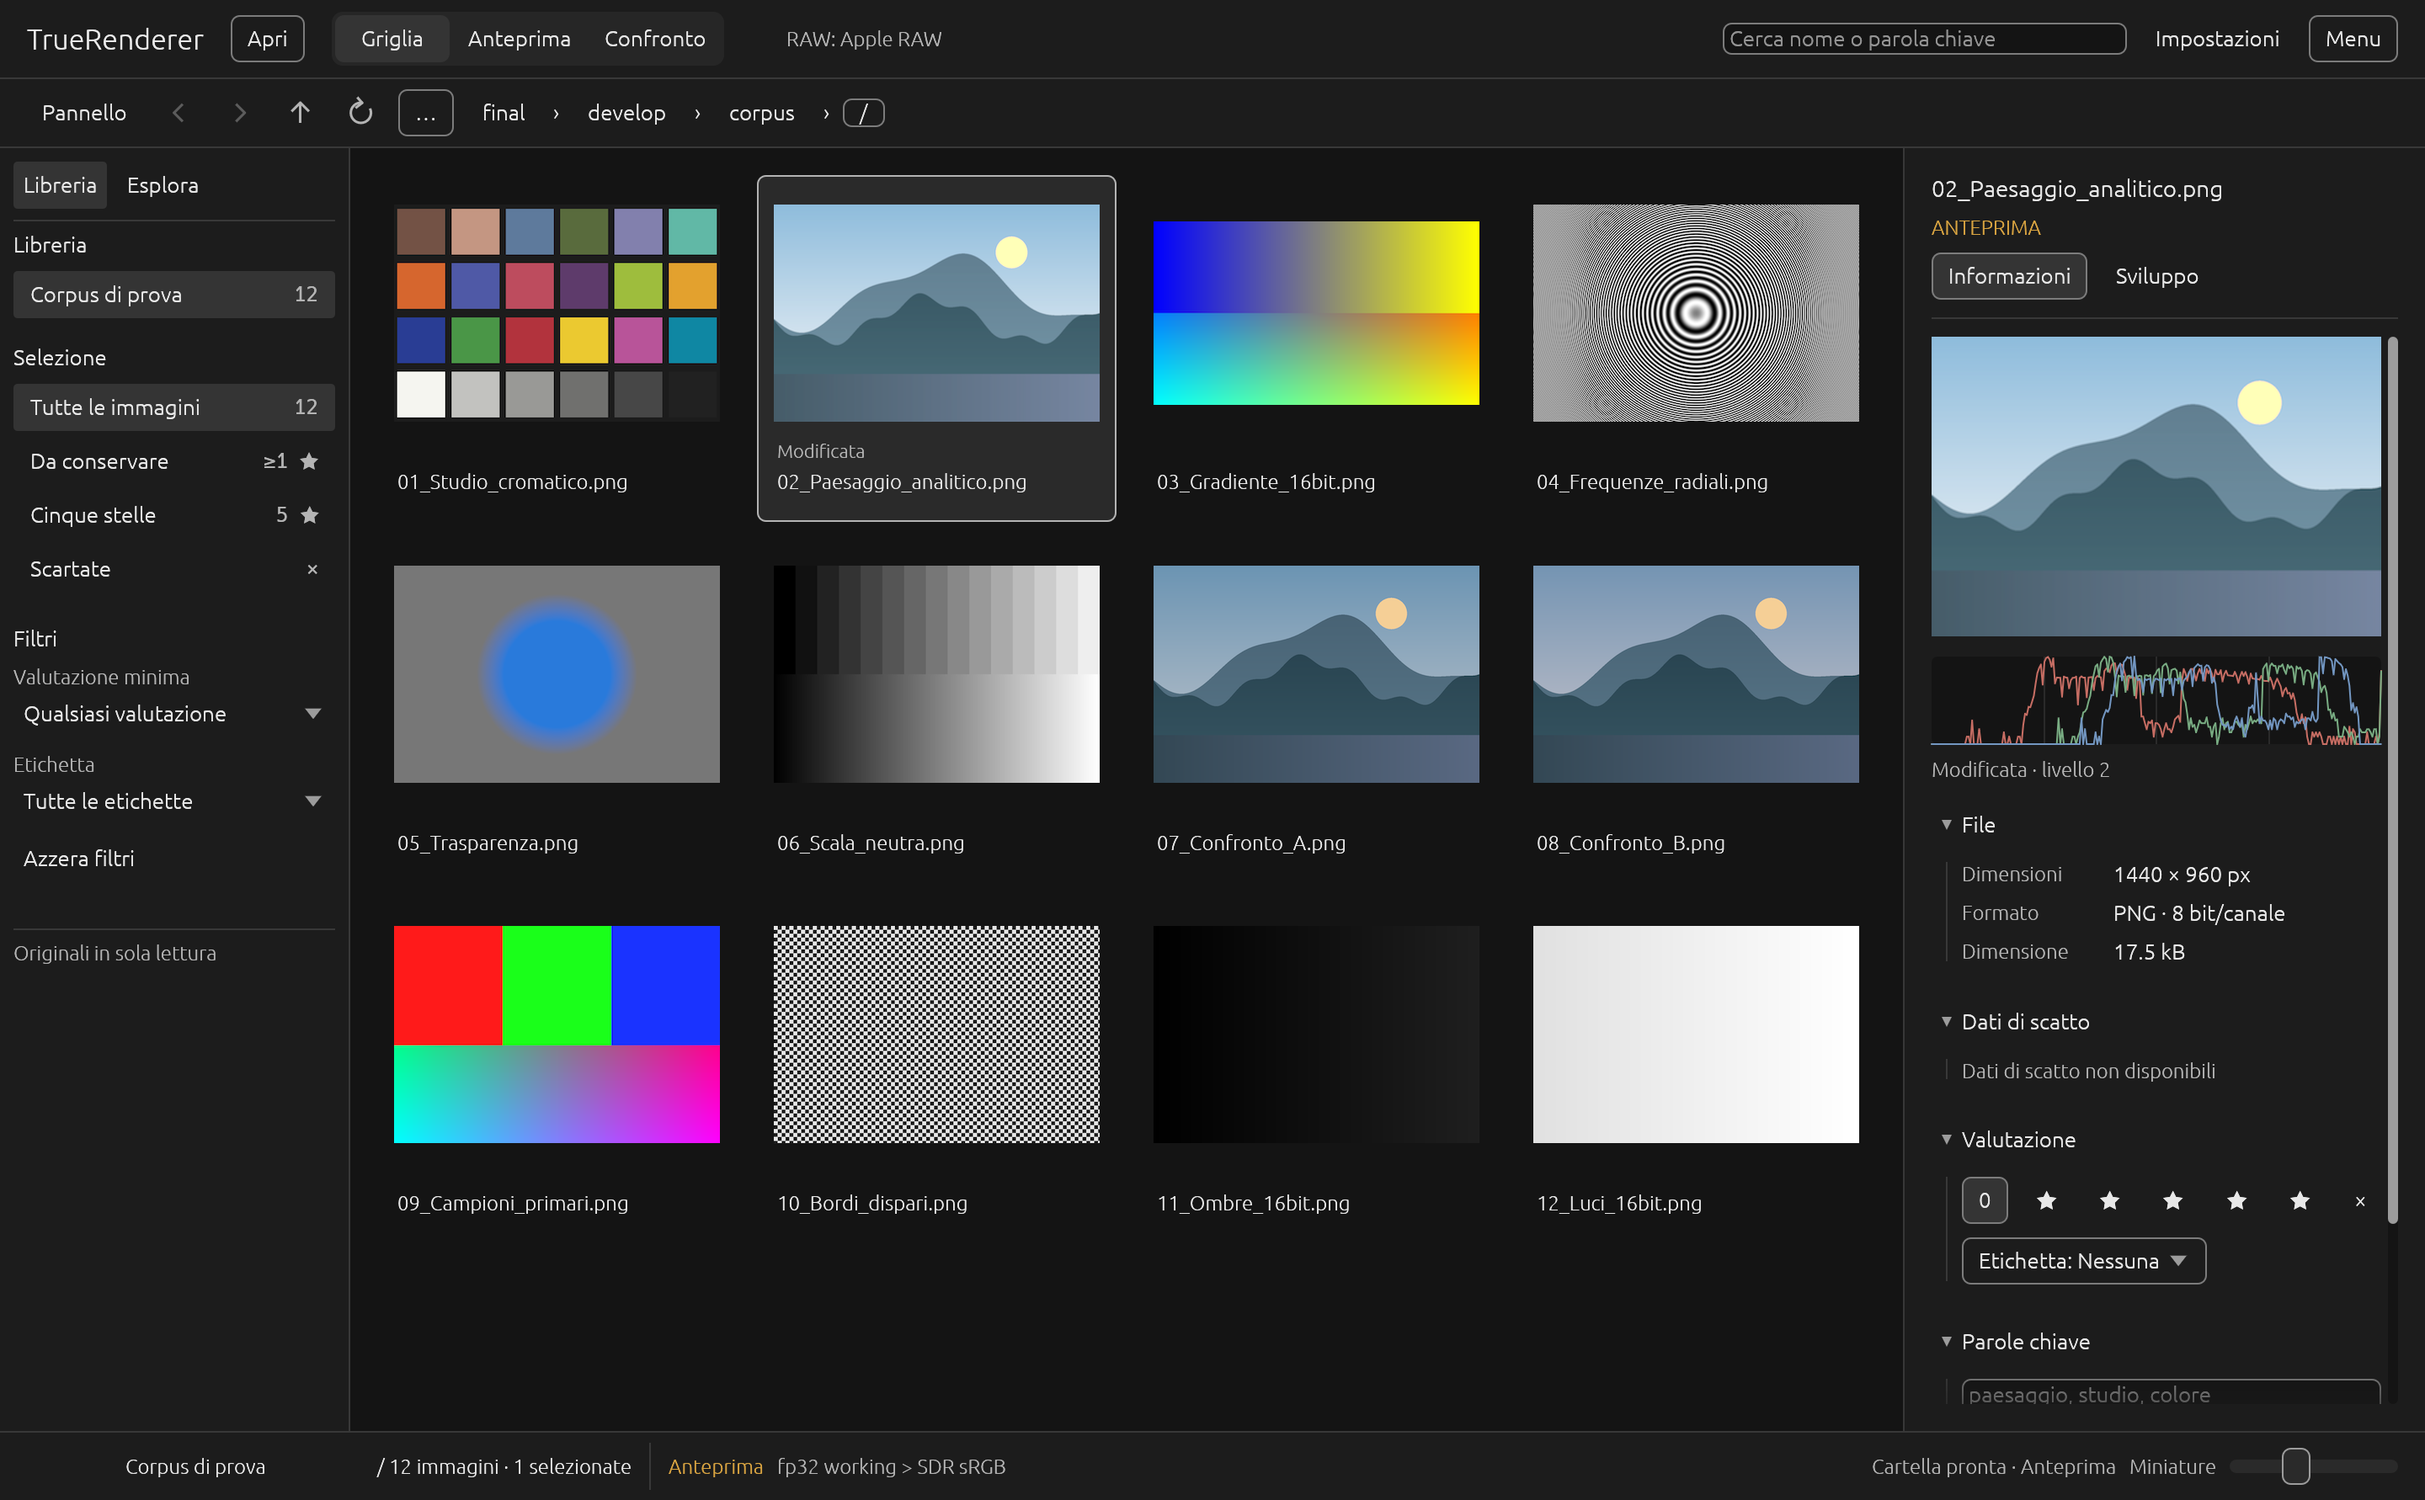
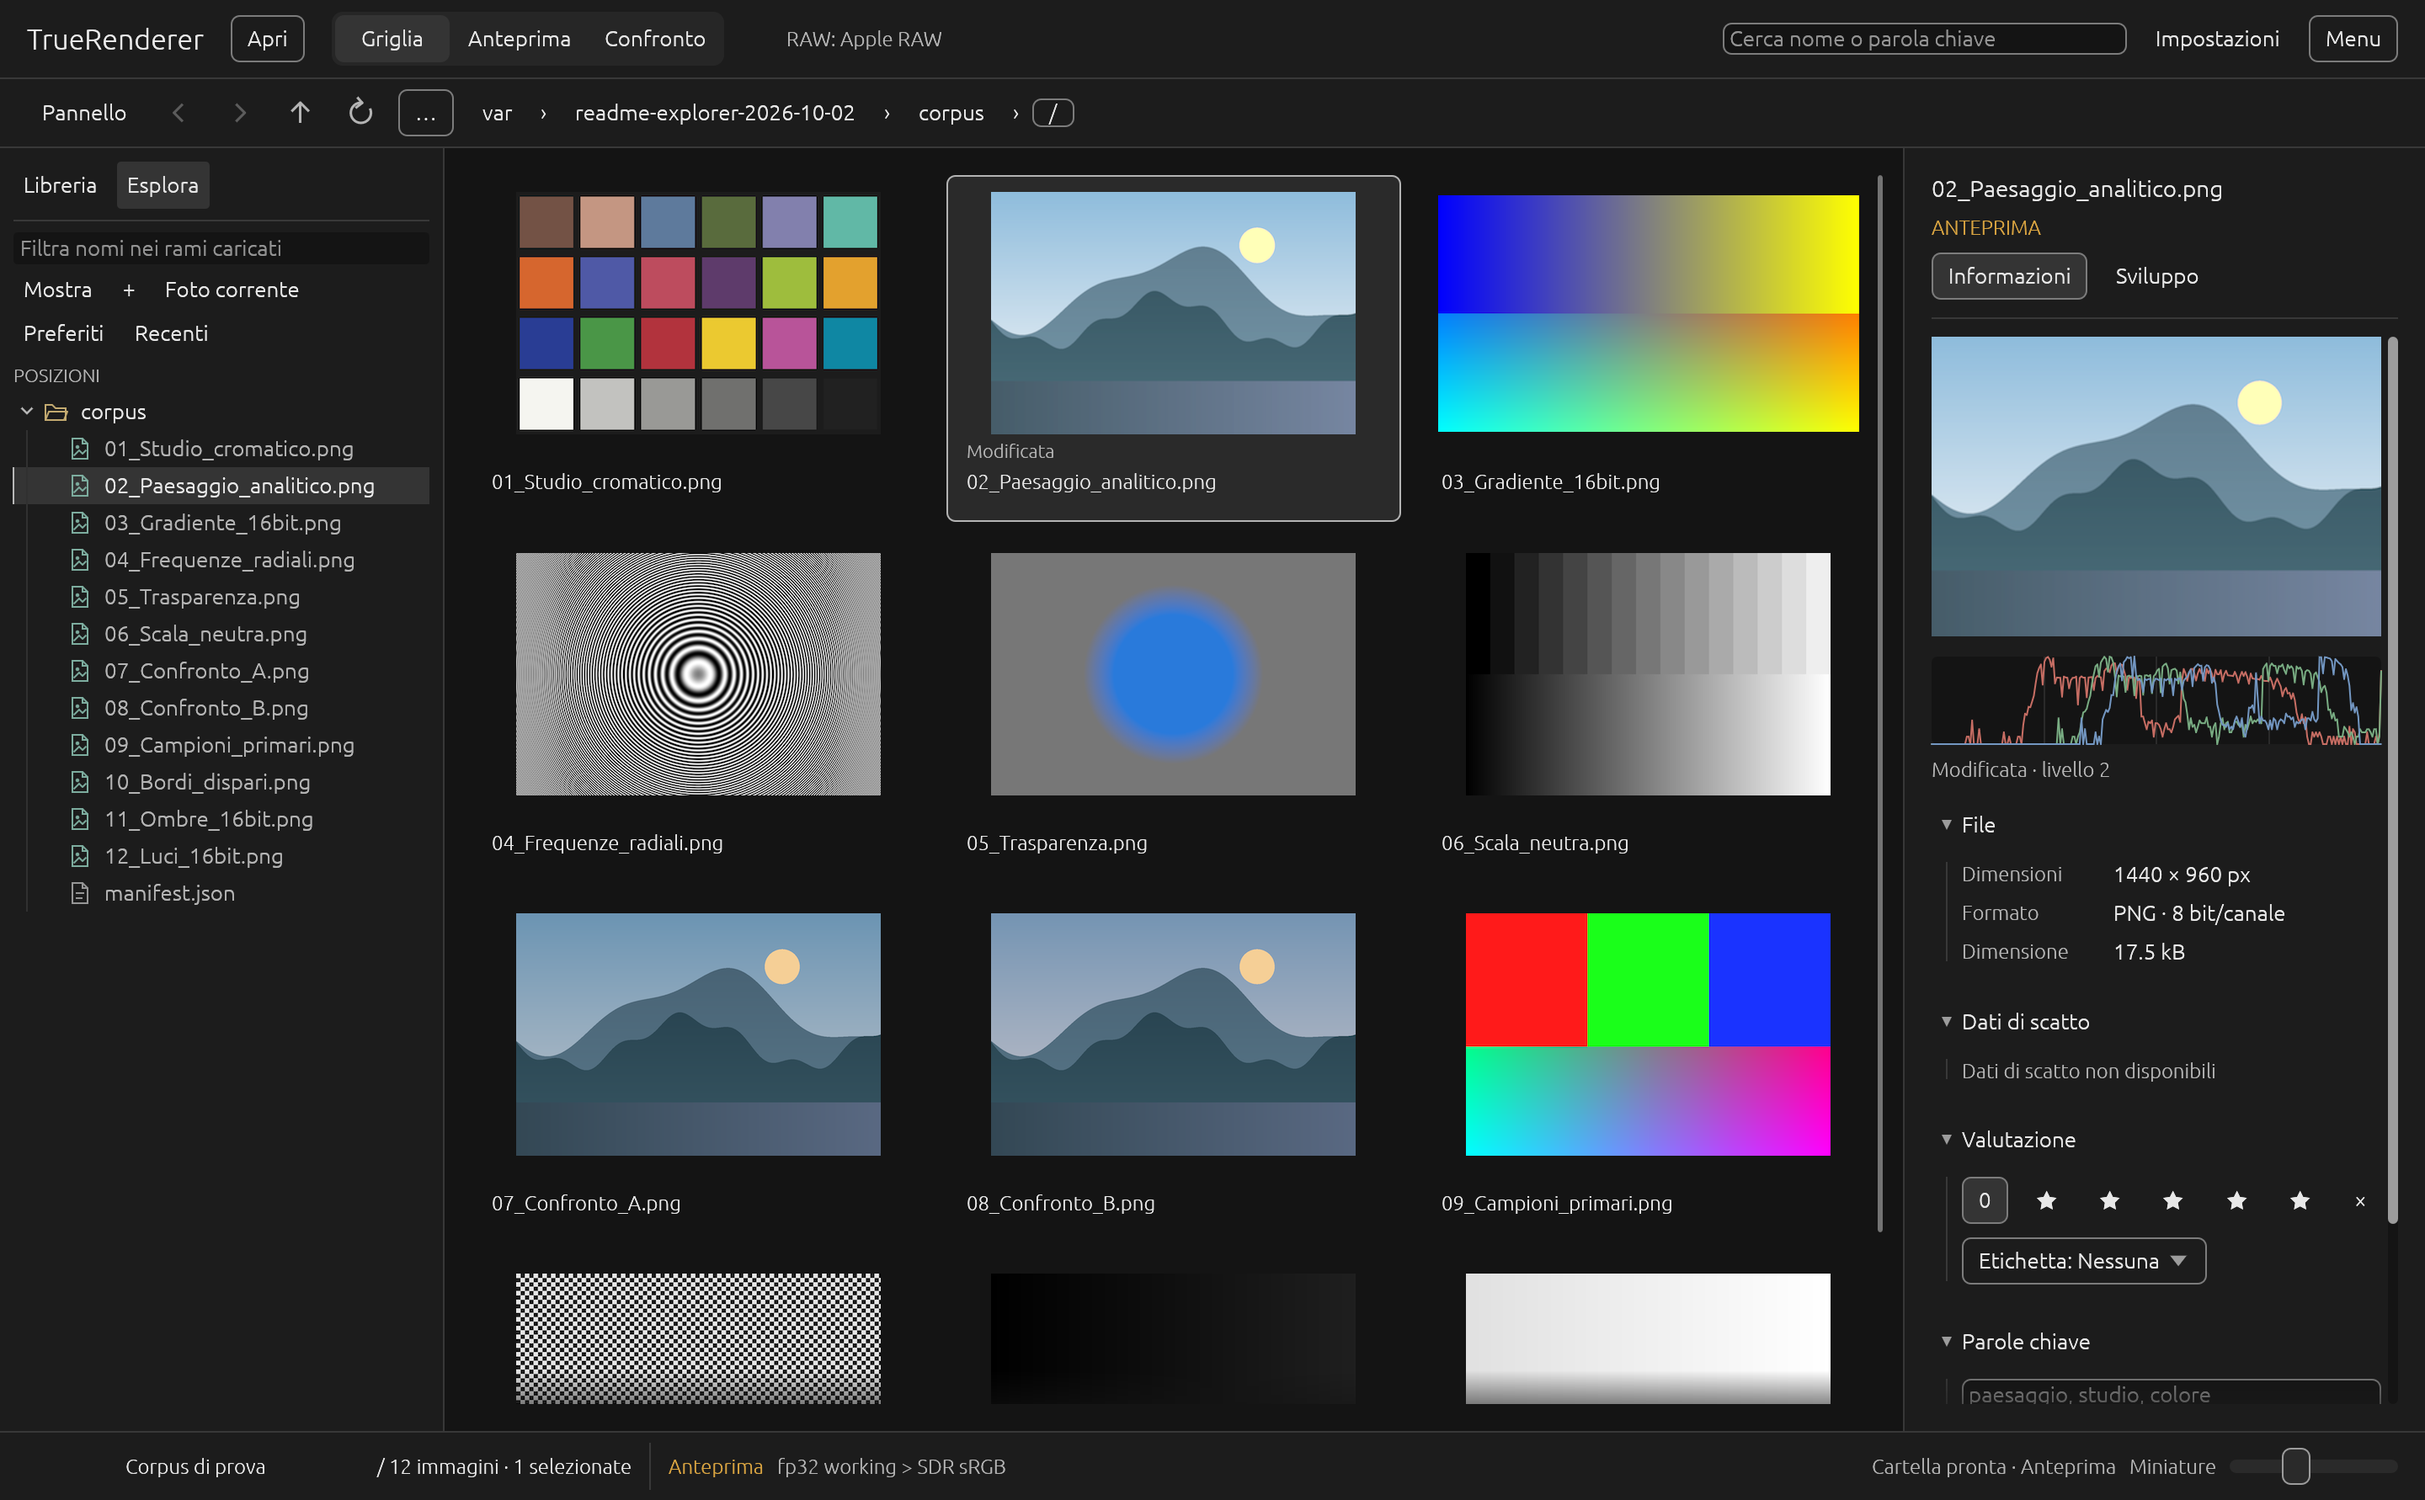
docs: show Explorer in README viewer and grid screenshots

diff --git a/README.md b/README.md
@@ -6,9 +6,9 @@ TrueRenderer is a native desktop application for photographers, astrophotographe
 
 It brings each image, its technical context and the choices behind its appearance into one focused workspace. Originals remain untouched, the library stays on your computer, and no account, upload or subscription is required.
 
-![TrueRenderer viewer with the Develop controls, edited photograph and filmstrip](reports/readme-viewer.png)
+![TrueRenderer viewer with Explorer, Develop controls, edited photograph and filmstrip](reports/readme-viewer.png)
 
-*Current macOS development build with the Develop tab, an edited image and filmstrip. All screenshots use 100% UI scale and the generated test corpus. [Capture details and verification](reports/readme-screenshots-macos.json).*
+*Current macOS development build with Explorer, the Develop tab, an edited image and filmstrip. All screenshots use 100% UI scale and the generated test corpus. [Capture details and verification](reports/readme-screenshots-macos.json).*
 
 ## A clearer way to look
 
@@ -174,7 +174,7 @@ RAW files do not have one universally correct appearance, and display colour dep
 
 The interface keeps the image at the centre. Explorer stays compact, technical information lives in collapsible sections, and familiar controls remain available across the grid, viewer and comparison workspace. Develop pairs each full-width slider with an editable value, while edit indicators sit below thumbnails to keep photographs unobstructed. Neutral selection borders and consistent navigation icons keep the controls easy to distinguish.
 
-![Thumbnail grid with Library, shooting data and a saved edit indicator](reports/readme-grid.png)
+![Thumbnail grid with Explorer, shooting data and a saved edit indicator](reports/readme-grid.png)
 
 In smaller windows, navigation and the Inspector open as floating panels. The compact Inspector uses more of the available height; the image preview and histogram can be expanded when needed. Portrait previews fit within a bounded height so File metadata stays close at hand.
 

diff --git a/STATO.md b/STATO.md
@@ -20,6 +20,10 @@ Le architetture rimandano a questo file e non ne incorporano il contenuto. `pyth
 
 ## Punto di ripresa
 
+### Screenshot README con Esplora — 2 ottobre
+
+- [x] **Aggiornato e verificato:** ricatturate viewer e griglia con pannello Esplora e albero del corpus aperto, UI al 100%, usando il bundle qualificato senza modifiche. Smoke Sviluppo passato su libreria isolata e sole sorgenti sintetiche; entrambe le immagini ispezionate, hash/dimensioni e didascalie aggiornati nel [rapporto catture](reports/readme-screenshots-macos.json). Hash del bundle e del corpus invariati; evidenze in `var/readme-explorer-2026-10-02/`. Nessuna modifica applicativa o chiusura di gate.
+
 ### Screenshot README al 100% — 2 ottobre
 
 - [x] **Aggiornato e verificato:** sostituita la schermata dell’ispettore al 200% con la vista Sviluppo al 100% della stessa campagna qualificata (`inspector-01`), ispezionata visivamente. Tutte le sei immagini collegate dal README usano la UI al 100%; didascalie e rapporto con scala, hash e dimensioni allineati. Solo documentazione e immagini; nessuna nuova prova applicativa.
